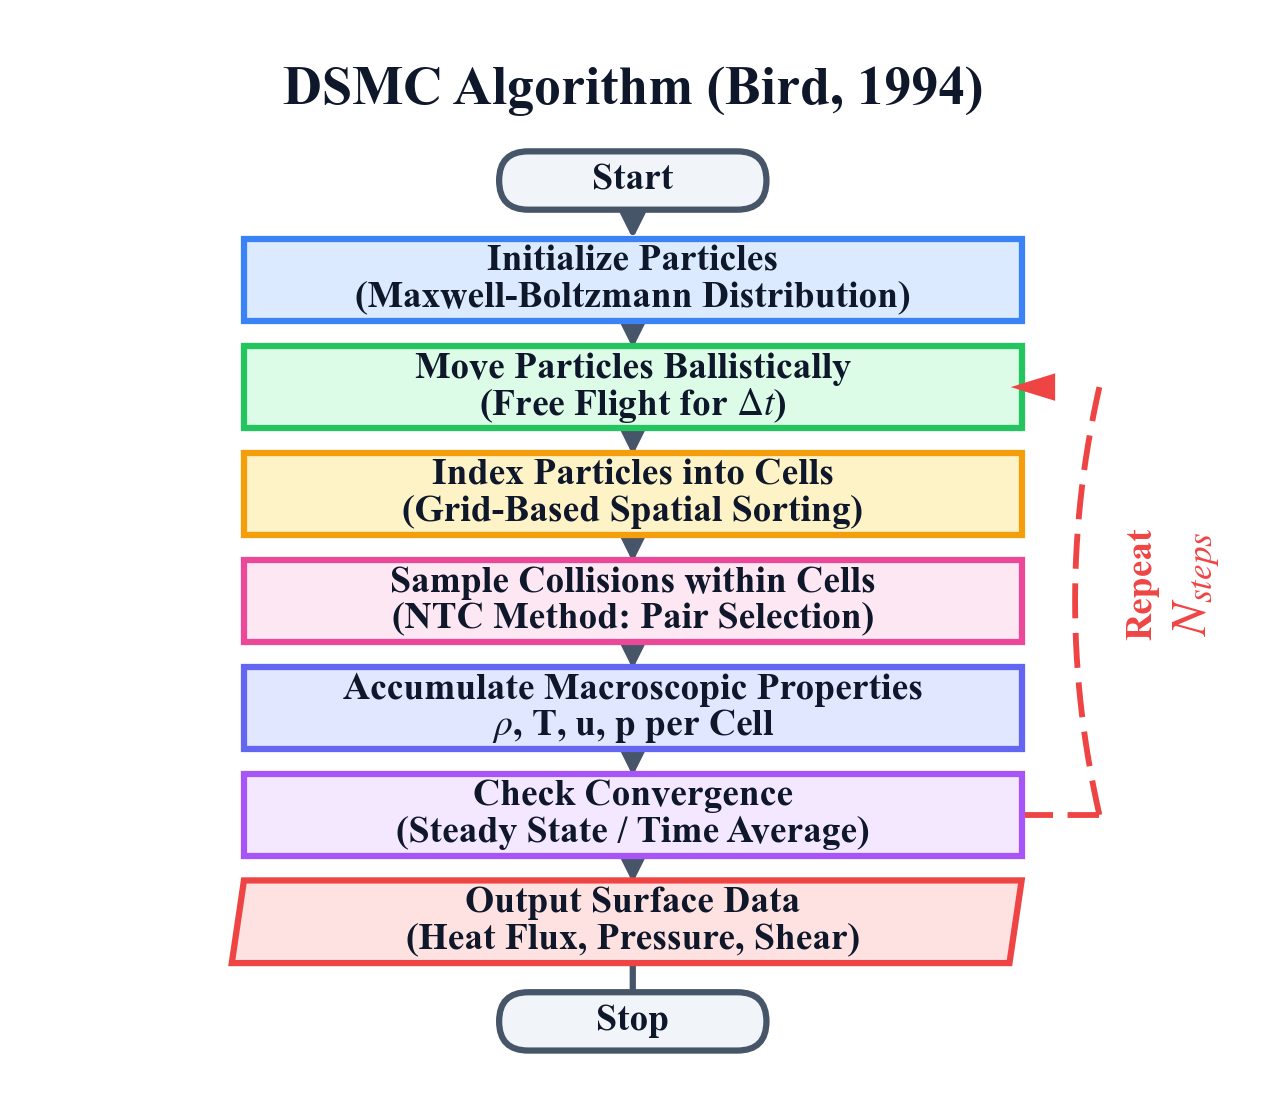
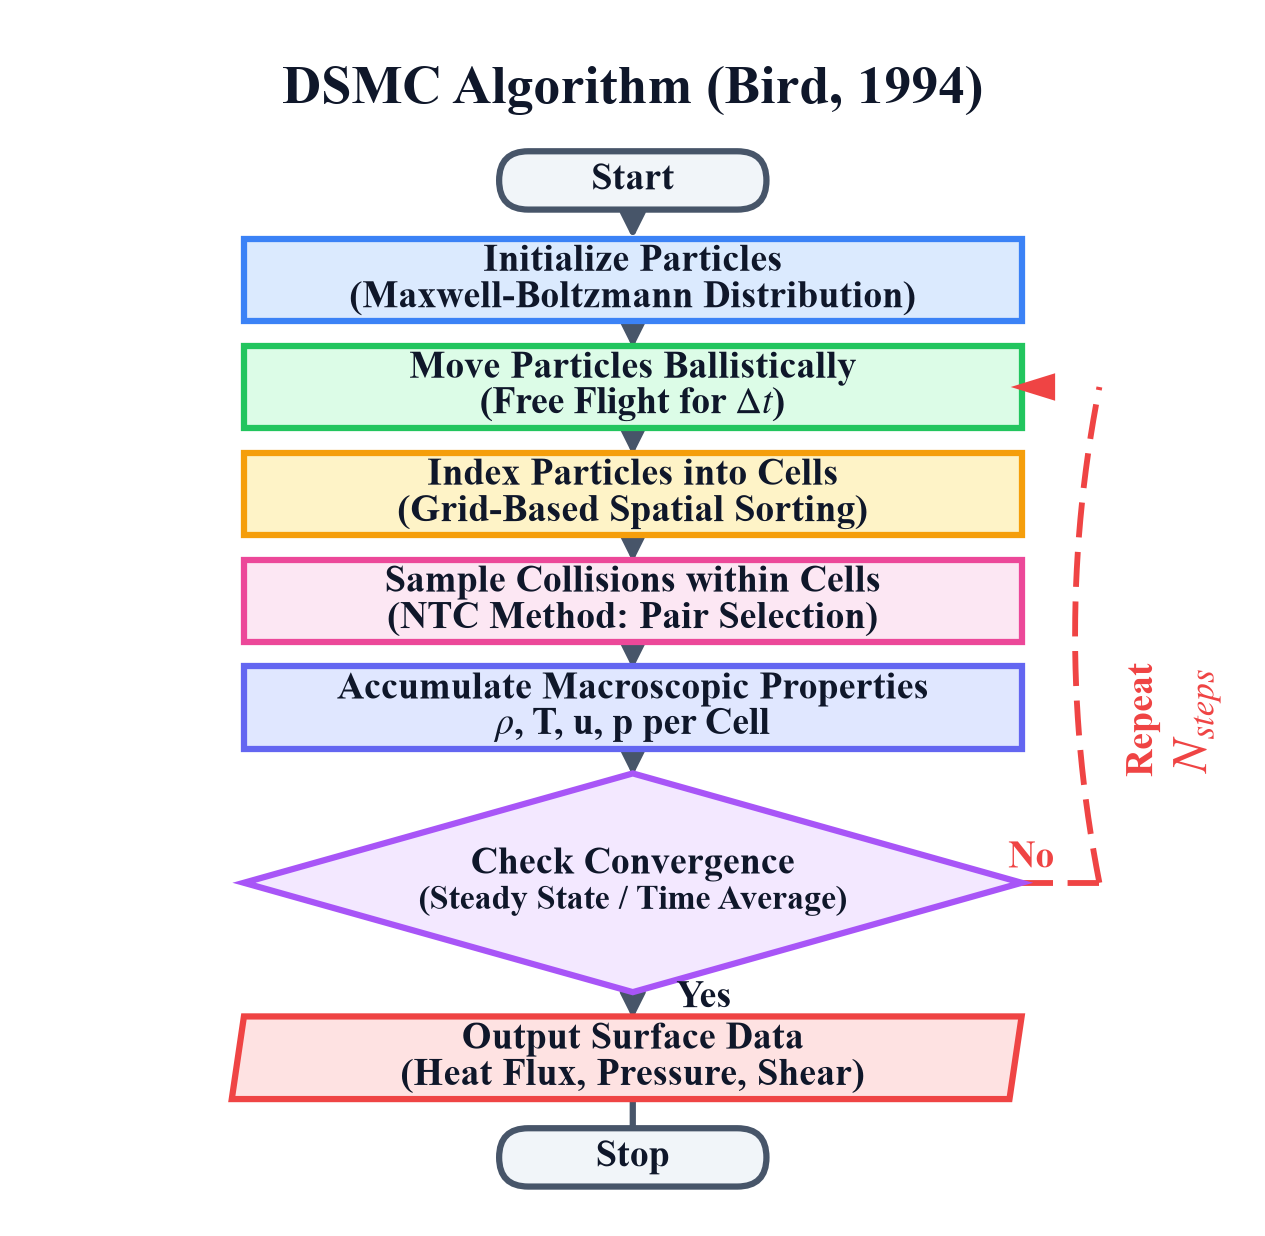
feat(thesis): A5 DSMC flowchart ISO 5807 decision diamond + Yes/No branch labels

diff --git a/Lost+Found/ProgressReport/CurrentThesisFinalReport/figures/make_dsmc_flowchart.py b/Lost+Found/ProgressReport/CurrentThesisFinalReport/figures/make_dsmc_flowchart.py
@@ -128,6 +128,13 @@ BOX_W = 3.20
 # visible white channel, which is the same floor measure_loop_gap already
 # uses for the loop.
 BOX_H = 0.34
+#  ISO 5807 gives the decision block its own taller slot: the diamond
+#  must CONTAIN its two text lines at the ink corners (|dy| = 0.1375 in
+#  for lines at +/-0.5*LABEL_PITCH), and a 0.17 in half-height cuts
+#  every glyph off. DECISION_H is the slot height for box 5 only; box 6
+#  and the Stop chain carry the delta in box_top, and H grows by the
+#  same amount so the bottom clearance stays BOT.
+DECISION_H = 0.90
 #  DEFECT 7a == the flowchart used 36% of the available plot width.
 #
 #  MEASURED (preamble.tex:524): \PlotFrame places with
@@ -137,8 +144,10 @@ BOX_H = 0.34
 #      HEIGHT-limited and its placed width is 0.60*\textheight * figure_aspect,
 #      so width usage is driven entirely by the figure's own aspect ratio.
 #  MEASURED here: W = 0.9 * TEXT_W_IN = 4.96063 in, and with
-#      H = TOP + TITLE_H + 7*BOX_H + 6*GAP + BOT = 4.24 in
-#  the shipped aspect was 1.170 -> placed width ~1.49 in of ~6.1 in = 24%.
+#      H = TOP + TITLE_H + START_SLOT + 6*BOX_H + DECISION_H + 6*GAP
+#          + STOP_SLOT + BOT = 4.84 in
+#  the shipped aspect is 1.025, so a height-limited 6.1 x 1.89 in frame
+#  places it 1.89 * 1.025 = 1.94 in wide == 32% of the box.
 #
 #  WHY A 2-COLUMN SNAKE WAS REJECTED (measured, not assumed):
 #      LOOP_X = BOX_X1 + 0.32 is anchored to the box column's RIGHT edge.
@@ -183,8 +192,8 @@ TERM_GAP = 0.12
 TITLE_GAP = 0.10
 START_SLOT = TITLE_GAP + TERM_H + TERM_GAP
 STOP_SLOT = TERM_GAP + TERM_H
-H = (TOP + TITLE_H + START_SLOT + N_BOX * BOX_H + (N_BOX - 1) * GAP
-     + STOP_SLOT + BOT)
+H = (TOP + TITLE_H + START_SLOT + (N_BOX - 1) * BOX_H + DECISION_H
+     + (N_BOX - 1) * GAP + STOP_SLOT + BOT)
 BOX_X0 = (W - BOX_W) / 2.0
 BOX_X1 = BOX_X0 + BOX_W
 CX = W / 2.0
@@ -228,11 +237,20 @@ TERM_FILL = "#F1F5F9"
 
 TITLE_FS = 13
 BOX_FS = 9
+# Box 5's subtitle only: '(Steady State / Time Average)' measures
+# 2.2155 in at 9 pt in the DejaVu worst case and would cut both
+# diamond edges, so it declares 8.1 to stay above the 8.0 pt printed
+# floor under the fit tolerance (printed = declared * achieved).
+DECISION_SUB_FS = 8.1
 LOOP_FS = 9
 LOOP_MATH_FS = 12
 TITLE_TEXT = "DSMC Algorithm (Bird, 1994)"
 LOOP_LABEL_1 = "Repeat"
 LOOP_LABEL_2 = "$N_{steps}$"
+# Branch labels for the box 5 decision diamond: No goes back around the
+# red Repeat loop, Yes continues down to the output parallelogram.
+DECISION_YES = "Yes"
+DECISION_NO = "No"
 # Mathtext shrinks subscripts by this factor. It is read from matplotlib
 # itself instead of being restated, because the legibility floor below is
 # only as trustworthy as this number.
@@ -308,7 +326,14 @@ def box_top(i: int) -> float:
     Returns
         y coordinate of the top edge.
     """
-    return H - TOP - TITLE_H - START_SLOT - i * (BOX_H + GAP)
+    top = H - TOP - TITLE_H - START_SLOT - i * (BOX_H + GAP)
+    if i == N_BOX - 1:
+        # Box 6 hangs below the decision diamond's taller slot: the
+        # delta DECISION_H - BOX_H was added above it in H, so subtract
+        # it here to keep box 6, Stop and the bottom clearance exactly
+        # on their old lines.
+        top -= DECISION_H - BOX_H
+    return top
 
 
 def box_center(i: int) -> float:
@@ -319,7 +344,8 @@ def box_center(i: int) -> float:
     Returns
         y coordinate of the center line.
     """
-    return box_top(i) - BOX_H / 2.0
+    slot = DECISION_H if i == 5 else BOX_H
+    return box_top(i) - slot / 2.0
 
 
 def check_text(name: str, value: str) -> None:
@@ -398,6 +424,8 @@ def draw() -> None:
     check_text("loop label 2", LOOP_LABEL_2)
     check_text("start terminator", "Start")
     check_text("stop terminator", "Stop")
+    check_text("decision branch yes", DECISION_YES)
+    check_text("decision branch no", DECISION_NO)
 
     fig = plt.figure(figsize=(W, H))
     ax = fig.add_axes((0.0, 0.0, 1.0, 1.0))
@@ -476,6 +504,26 @@ def draw() -> None:
                 linewidth=BOX_LW,
                 slant_in=fsh.SLANT_IN,
             )
+        elif i == 5:
+            # ISO 5807 decision diamond for Check Convergence: four
+            # points at the slot's top/right/bottom/left, so the column
+            # arrow lands on the top vertex and the Repeat loop leaves
+            # the right vertex exactly where the old rectangle edge sat
+            # (BOX_X1), keeping the loop mask and clearance checks.
+            ax.add_patch(
+                Polygon(
+                    [
+                        (CX, top),
+                        (BOX_X1, top - DECISION_H / 2.0),
+                        (CX, top - DECISION_H),
+                        (BOX_X0, top - DECISION_H / 2.0),
+                    ],
+                    facecolor=fill,
+                    edgecolor=border,
+                    linewidth=BOX_LW,
+                    zorder=2,
+                )
+            )
         else:
             ax.add_patch(
                 Rectangle(
@@ -488,9 +536,10 @@ def draw() -> None:
                     zorder=2,
                 )
             )
+        cy = box_center(i)
         ax.text(
             CX,
-            top - BOX_H / 2.0 + 0.5 * LABEL_PITCH,
+            cy + 0.5 * LABEL_PITCH,
             BOX_TITLES[i],
             ha="center",
             va="center",
@@ -501,18 +550,20 @@ def draw() -> None:
         )
         ax.text(
             CX,
-            top - BOX_H / 2.0 - 0.5 * LABEL_PITCH,
+            cy - 0.5 * LABEL_PITCH,
             BOX_SUBS[i],
             ha="center",
             va="center",
-            fontsize=BOX_FS,
+            fontsize=DECISION_SUB_FS if i == 5 else BOX_FS,
             fontweight="bold",
             color="#0F172A",
             zorder=3,
         )
 
     for i in range(N_BOX - 1):
-        y_from = box_top(i) - BOX_H
+        # Box 5 exits from the diamond's bottom vertex, not BOX_H down.
+        slot = DECISION_H if i == 5 else BOX_H
+        y_from = box_top(i) - slot
         y_to = box_top(i + 1) - 0.01
         ax.annotate(
             "",
@@ -562,6 +613,34 @@ def draw() -> None:
     # A rendered-page audit found it floating six points clear of the box with
     # no leader line, and box 2 already names the step length in its own second
     # line as "Free Flight for Delta t", so the label was pure duplication.
+
+    # Branch labels: No sits above the loop tail between the diamond's
+    # right edge and the bezier (edge x = 3.724 at this y, bezier x ~=
+    # 4.38, ink 3.995..4.245); Yes sits beside the column arrow in the
+    # gap between box 6's top line and the diamond's lower-right edge
+    # (ink 0.7925..0.9175 vs box6 0.78 and edge 0.931 at x = 2.66).
+    ax.text(
+        LOOP_X - 0.28,
+        box_center(5) + 0.10,
+        DECISION_NO,
+        ha="center",
+        va="center",
+        fontsize=BOX_FS,
+        fontweight="bold",
+        color=RED,
+        zorder=3,
+    )
+    ax.text(
+        CX + 0.18,
+        box_top(N_BOX - 1) + 0.075,
+        DECISION_YES,
+        ha="left",
+        va="center",
+        fontsize=BOX_FS,
+        fontweight="bold",
+        color="#0F172A",
+        zorder=3,
+    )
 
     y_loop_from = box_center(5)
     y_loop_to = box_center(1)
